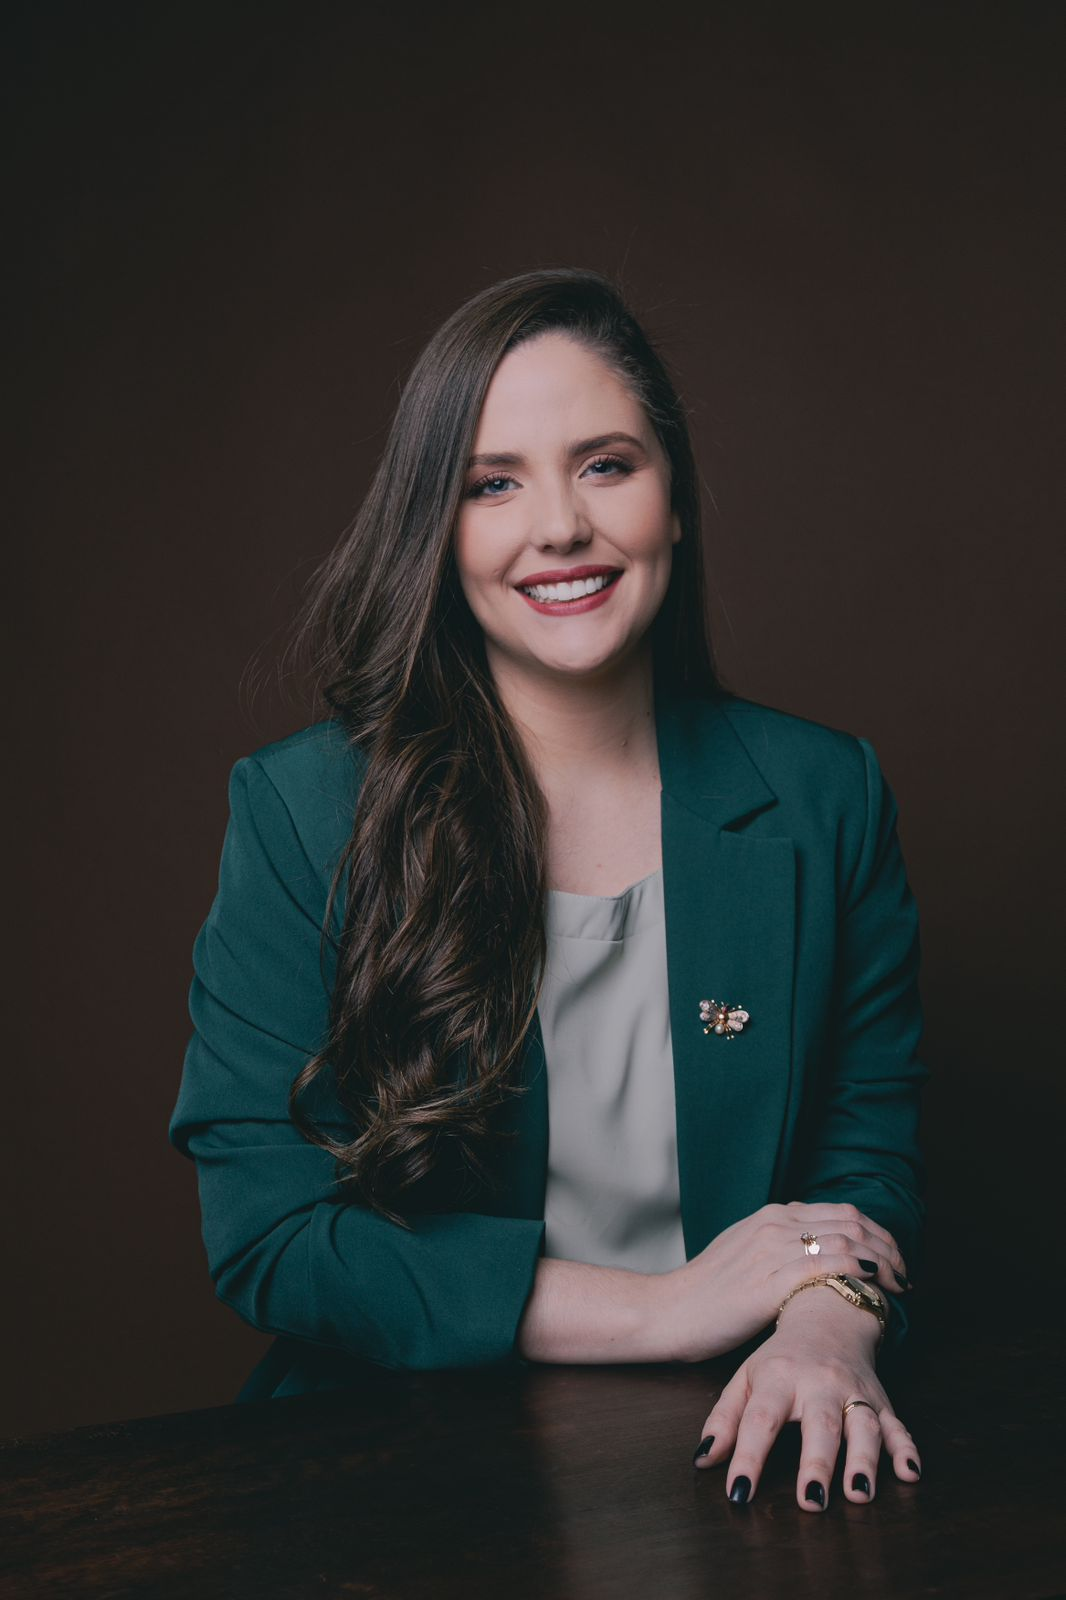
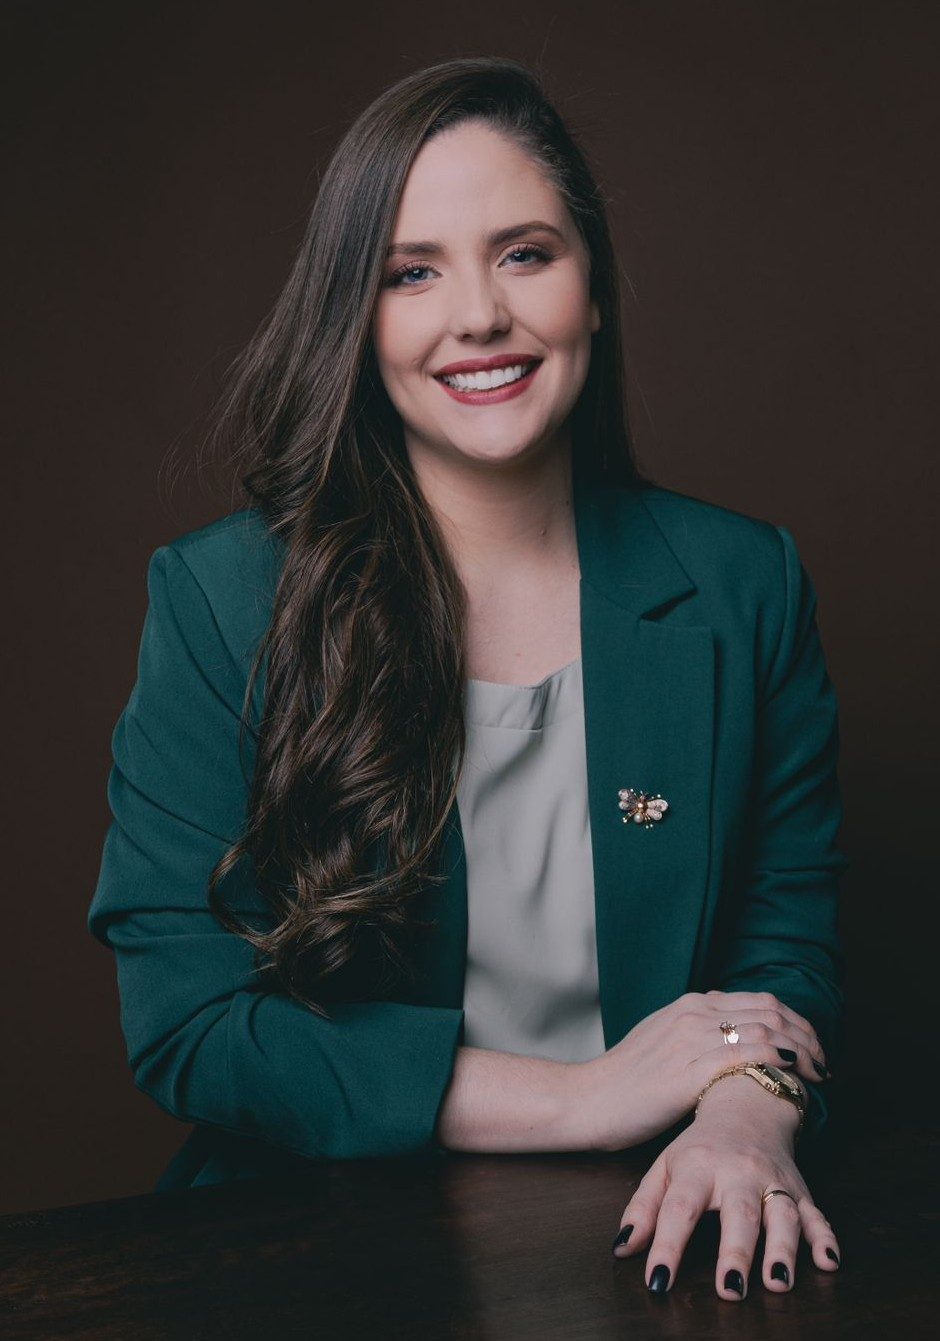
updating style

diff --git a/src/routes/+page.svelte b/src/routes/+page.svelte
@@ -45,7 +45,7 @@
     <section class="container">
       <div class="row">
         <div class="column">
-          <h3>Possíveis Benefícios da Terapia</h3>
+          <h3 class="sm">Possíveis Benefícios da Terapia</h3>
           <ul>
             <li>Manejo da ansiedade elevada</li>
             <li>Manejo das emoções</li>
@@ -55,10 +55,8 @@
             <li>Desenvolvimento de habilidades sociais</li>
             <li>Reconhecimento do seu propósito de vida</li>
             <li>Identificação de pontos frágeis</li>
+            <li>Atendimento para todas as idades. Presencial e/ou online.</li>
           </ul>
-        </div>
-        <div class="column small-m">
-          <p>Atendimento para todas as idades. Presencial e/ou online.</p>
           <p class="highlight">
             Forneço recibo para convênios que trabalham com a modalidade de
             reembolso.
@@ -168,18 +166,22 @@
 
 <style>
   .img-myself {
-    width: 20%;
+    width: 30%;
     position: absolute;
     top: 14%;
-    right: 2%;
+    right: 4%;
     border: solid 3pt white;
     border-radius: 4px;
   }
 
   @media (max-width: 600px) {
+  .sm {
+    max-width: 230px;
+  }
     .img-myself {
-      width: 33%;
-      top: 480px;
+      object-fit: fill;
+      width: 40%;
+      top: 485px;
     }
     .computer {
       display: none;
@@ -268,6 +270,8 @@
   }
 
   .highlight {
+    margin-top:50px;
     font-size: 14pt;
   }
+
 </style>

diff --git a/src/site.css b/src/site.css
@@ -10,13 +10,13 @@
     --red: #bf616a;
     --orange: #C7816B;
     --yellow: #ebcb8b;
-    --green: #8CA676;
+    --green: #5f8868;
     --pink: #b48ead;
     --inverted: #434c5e;
   }
 
   body {
-    font-family: "Lato";
+    font-family: "Lato, Roboto, sans-serif";
     background-color: var(--bg);
   }
   a {
